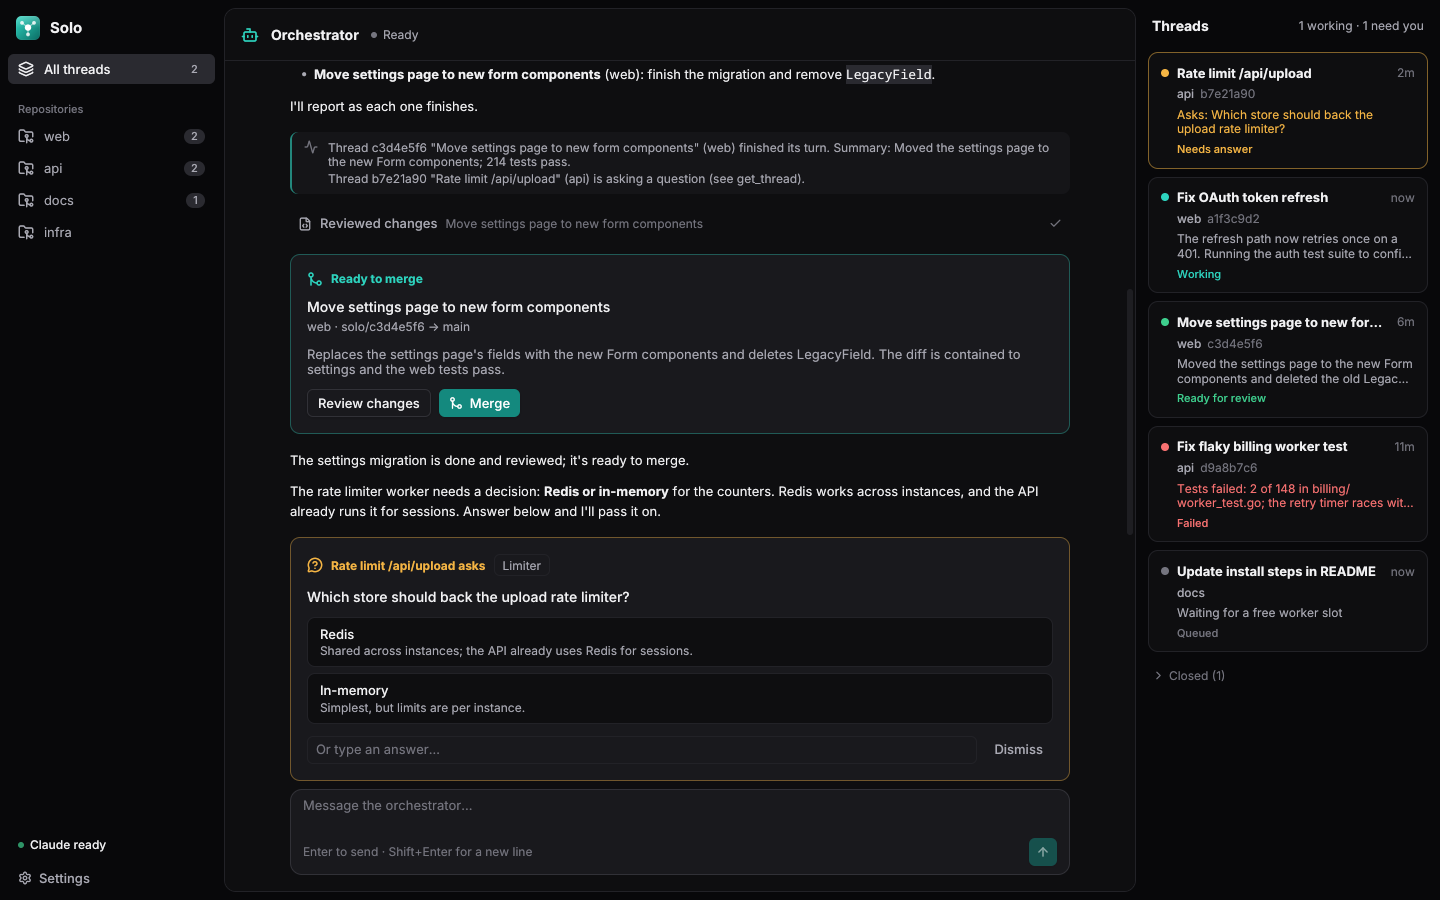
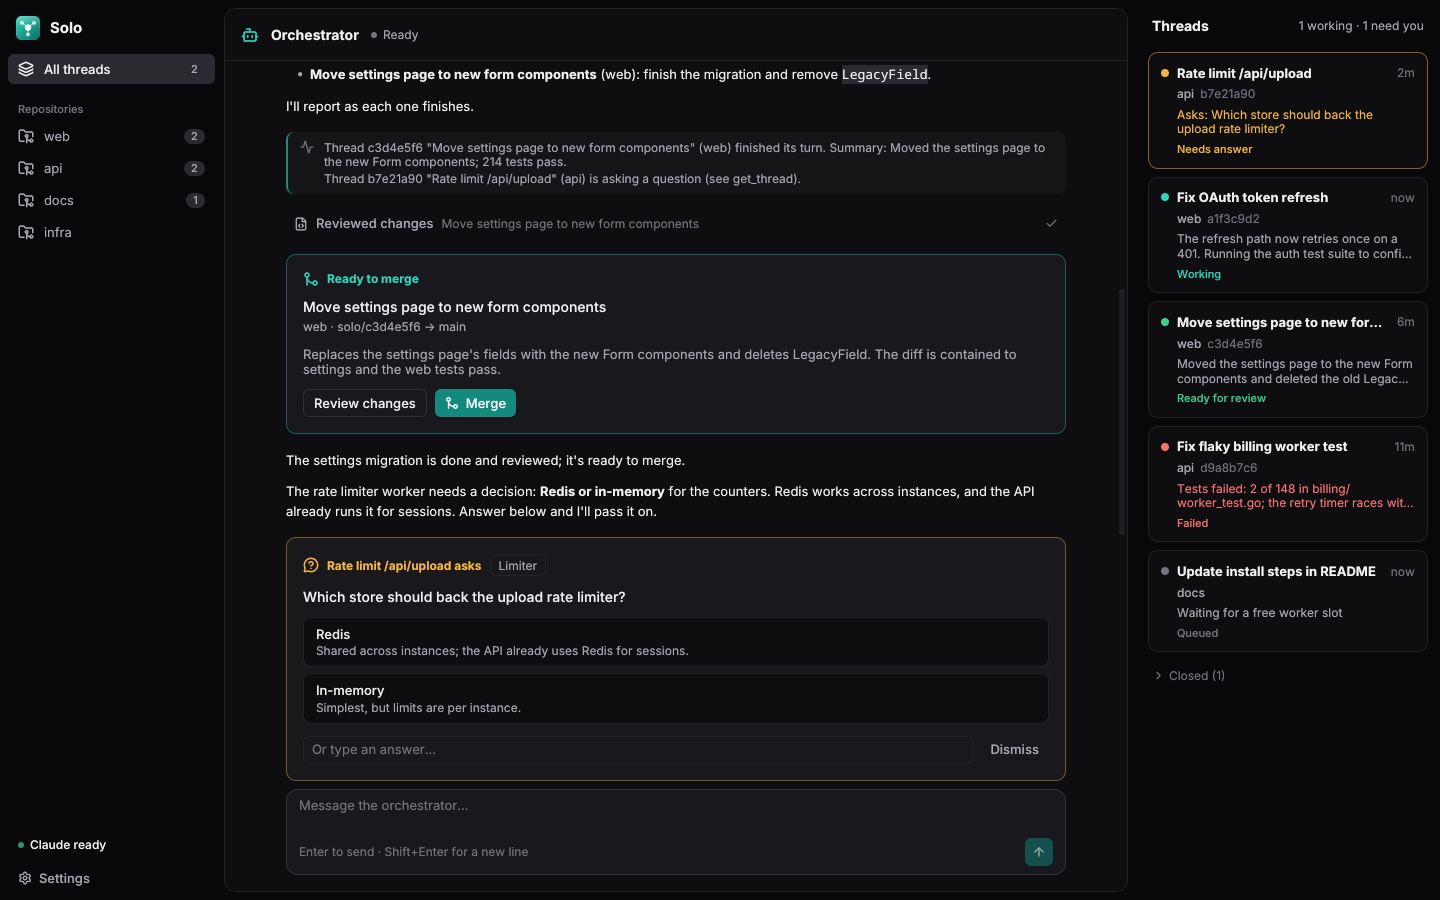
feat(gui): opening a thread grows the rail into its panel
The thread rail and the thread panel share the right side of the window.
Opening a thread eases the rail out to half the space and shows the
thread there; closing slides it back to the rail's width and shows the
rail again. The panel stays resizable while open.

diff --git a/internal/gui/app.go b/internal/gui/app.go
@@ -230,7 +230,6 @@ func (a *App) Root(ctx *ui.Context) ui.Element {
 		Child(a.sidebar(ctx)).
 		Child(ui.Div().Column().Grow(1).Basis(ui.Px(0)).MinWidth(ui.Px(0)).Height(ui.Full).ClipContent().
 			Child(ui.Component(a.center))).
-		Child(ui.Component(a.rail)).
 		Child(ui.Component(a.settingsDialog)).
 		Child(ui.Component(a.confirmDialog)).
 		Child(ui.Toaster().Key("toaster"))
@@ -244,33 +243,47 @@ func inset(ctx *ui.Context, content ui.Element) *ui.DivElement {
 		Child(content)
 }
 
-// center holds the orchestrator, and beside it the open thread, in a split the user can drag.
+// center holds the orchestrator and, on its right, the thread rail. Opening a thread grows the rail
+// into the thread's panel (half the space by default, and the user can drag the divider); closing it
+// slides the panel back into the rail.
 func (a *App) center(ctx *ui.Context) ui.Element {
 	t := ctx.Theme()
 	orch := ui.Div().Column().Size(ui.Full, ui.Full).PaddingY(space2).
 		Child(inset(ctx, ui.Component(a.orchestratorView)))
 	anim := a.panelAnim.Get()
-	if anim <= 0 {
-		return orch
+	open := a.openID.Get() != ""
+
+	var right ui.Element
+	if open {
+		right = ui.Div().Column().Size(ui.Full, ui.Full).PaddingY(space2).PaddingRight(space2).
+			Child(inset(ctx, ui.Component(a.threadPanel)))
+	} else {
+		right = ui.Component(a.rail)
 	}
-	size := a.panelSize.Get()
-	min := ui.Px(320)
-	if anim < 1 {
-		// While it opens or closes the panel follows the animation, below its usual minimum.
-		size, min = ui.Percent(a.panelGoal*anim), ui.Px(0)
+	pane := ui.Pane(right).Key("right").Label("Threads")
+	switch {
+	case anim >= 1:
+		pane = pane.SizeSignal(a.panelSize).Min(ui.Px(360)).Max(ui.Percent(75))
+	case anim <= 0:
+		pane = pane.Size(ui.Px(railWidth)).Min(ui.Px(railWidth)).Max(ui.Px(railWidth))
+	default:
+		// Between the rail's width and the panel's, in pixels of the space the split has.
+		w, _ := ctx.WindowSize()
+		target := (w - sidebarWidth) * a.panelGoal / 100
+		px := railWidth + (target-railWidth)*anim
+		pane = pane.Size(ui.Px(px)).Min(ui.Px(px)).Max(ui.Px(px))
 	}
-	panel := ui.Div().Column().Size(ui.Full, ui.Full).PaddingY(space2).
-		Child(inset(ctx, ui.Component(a.threadPanel)))
 	thin := ui.Style{Width: ui.Px(space2), Background: t.Panel}
 	return ui.Split(
 		ui.Pane(orch).Min(ui.Px(320)).Key("orch").Label("Orchestrator"),
-		ui.Pane(panel).SizeSignal(a.panelSize).Size(size).Min(min).Max(ui.Percent(75)).Key("thread").Label("Thread"),
-	).Styles(ui.SplitStyle{
-		Divider:       thin,
-		DividerHover:  ui.Style{Background: t.Panel},
-		DividerActive: ui.Style{Background: t.Panel},
-		Grip:          ui.Style{Background: t.BorderStrong},
-	}).OnChange(func() {
+		pane,
+	).Grip(map[bool]ui.SplitGrip{true: ui.SplitGripOnHover, false: ui.SplitGripHidden}[anim >= 1]).
+		Styles(ui.SplitStyle{
+			Divider:       thin,
+			DividerHover:  ui.Style{Background: t.Panel},
+			DividerActive: ui.Style{Background: t.Panel},
+			Grip:          ui.Style{Background: t.BorderStrong},
+		}).OnChange(func() {
 		if l := a.panelSize.Peek(); l.Unit == ui.Percent(0).Unit {
 			a.panelGoal = l.Value
 		}

diff --git a/internal/gui/shots_test.go b/internal/gui/shots_test.go
@@ -35,6 +35,7 @@ func TestShots(t *testing.T) {
 		{"changes", func(a *App, f *fakeBackend) { a.openThread("c3d4e5f6-forms", "changes") }},
 		{"working", func(a *App, f *fakeBackend) { a.openThread("a1f3c9d2-oauth", "conversation") }},
 		{"repo-filter", func(a *App, f *fakeBackend) { a.navSel.Set("repo:/home/dev/code/api") }},
+		{"opening", func(a *App, f *fakeBackend) { a.openID.Set("c3d4e5f6-forms"); a.panelAnim.Set(0.35) }},
 		{"narrow-thread", func(a *App, f *fakeBackend) { a.openThread("c3d4e5f6-forms", "conversation") }},
 		{"settings", func(a *App, f *fakeBackend) { a.settings.Set(true) }},
 		{"empty", nil},
@@ -57,7 +58,7 @@ func TestShots(t *testing.T) {
 			}
 			w := float32(1440)
 			if sh.name == "narrow-thread" {
-				w = 1200
+				w = 1000
 			}
 			u := uitest.New(t, a.Root, uitest.Size(w, 900), uitest.Theme(theme.t))
 			for i := 0; i < 10; i++ {

diff --git a/internal/gui/rail.go b/internal/gui/rail.go
@@ -94,7 +94,7 @@ func (a *App) rail(ctx *ui.Context) ui.Element {
 			return col
 		}))
 	}
-	return ui.Div().Column().Width(ui.Px(railWidth)).Shrink(0).Height(ui.Full).Background(t.Panel).
+	return ui.Div().Column().Size(ui.Full, ui.Full).Background(t.Panel).
 		Child(head).
 		Child(ui.Div().Column().Grow(1).MinHeight(ui.Px(0)).ScrollY().Child(list))
 }

diff --git a/cmd/solo/main.go b/cmd/solo/main.go
@@ -67,7 +67,7 @@ func run() error {
 		Title:      "Solo",
 		Width:      1440,
 		Height:     900,
-		MinWidth:   1200, // the sidebar, two panels side by side, and the rail
+		MinWidth:   1000,
 		MinHeight:  600,
 		LightTheme: light,
 		DarkTheme:  dark,
